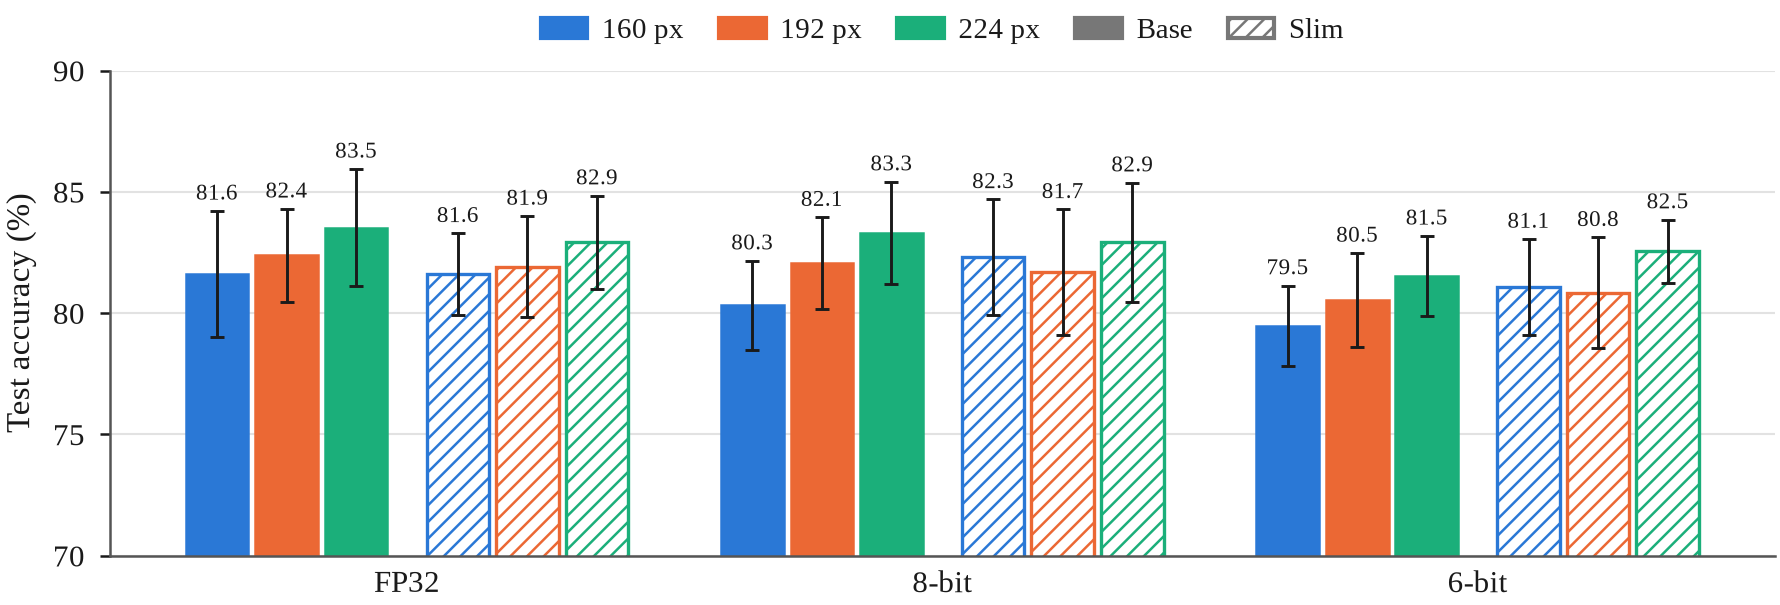
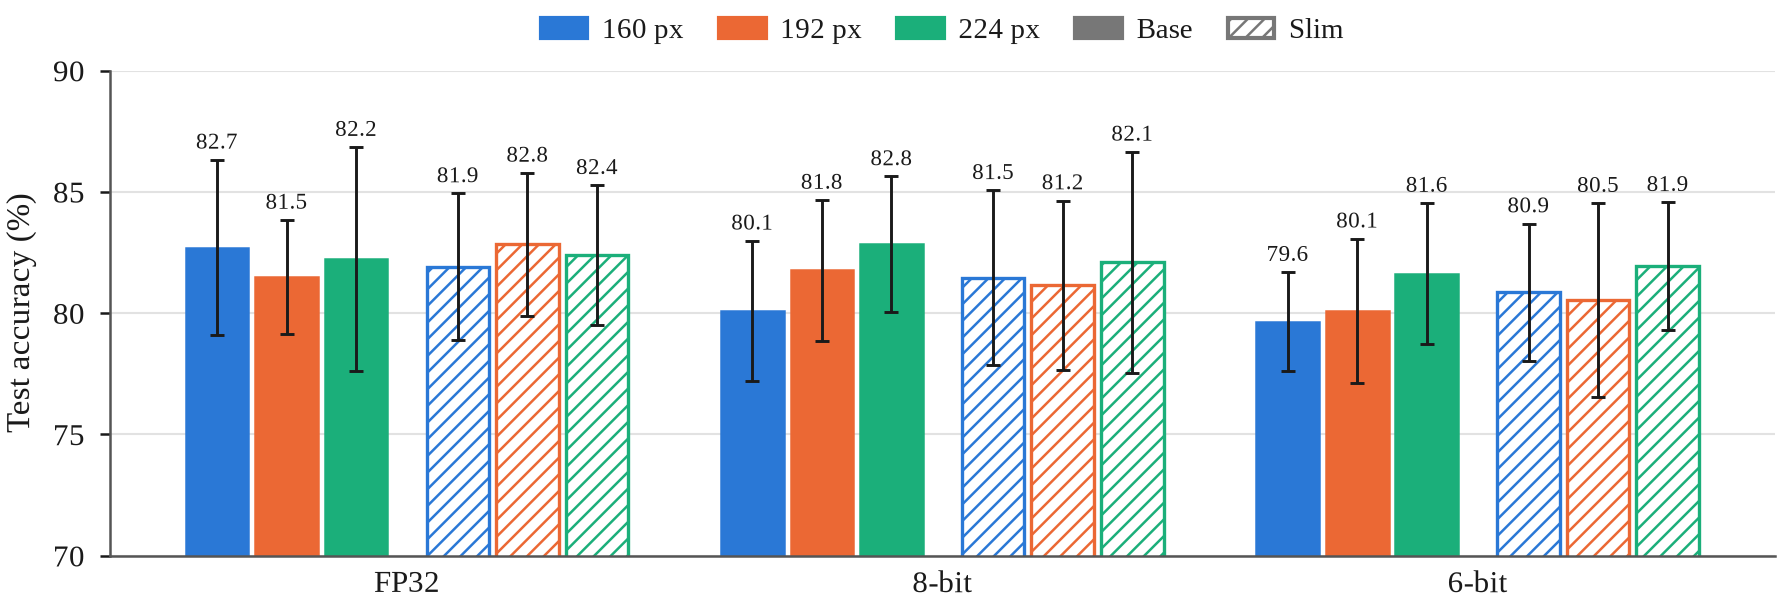
QAT figures from the TA-teacher runs only

diff --git a/scripts/make_figures.py b/scripts/make_figures.py
@@ -40,6 +40,8 @@ TEACHER_NAMES = {"r18_ta": "TA (ResNet18)", "r50_direct": "Direct (ResNet50)"}
 PRECISIONS = ("fp32", "8w8a", "6w6a", "4w4a")
 PRECISION_NAMES = {"fp32": "FP32", "8w8a": "8-bit", "6w6a": "6-bit", "4w4a": "4-bit"}
 BIT_MARKERS = {"6w6a": "o", "8w8a": "^"}
+# QAT is part of the teacher-assistant pipeline; the R50-direct QAT runs stay in results/ but are not plotted.
+QAT_TEACHER = "r18_ta"
 
 # Reference categorical palette (light mode, slots 1-3); validated all-pairs for three series.
 RES_COLORS = {160: "#2a78d6", 192: "#eb6834", 224: "#1baf7a"}
@@ -218,7 +220,7 @@ def fig_fp32_teachers(runs, out, metric, label):
 
 
 def fig_qat_precision(runs, out, metric, label, precisions, ylim, name):
-    """Accuracy for each precision, teachers pooled (5 seeds x 2 teachers)."""
+    """Accuracy for each precision; runs are the TA-teacher runs (5 seeds)."""
     stats = summarize(runs, ("architecture", "resolution", "precision"))
     fig, ax = plt.subplots(figsize=(TEXT_WIDTH, 2.1))
     width = 0.13
@@ -267,7 +269,7 @@ def fig_u250_throughput(builds, out):
 
 
 def fig_u250_accuracy_vs_throughput(builds, runs, out):
-    """QAT accuracy (teachers pooled) against the maximum U250 throughput of the same configuration."""
+    """QAT accuracy (TA teacher, 5 seeds) against the maximum U250 throughput of the same configuration."""
     stats = summarize(runs, ("architecture", "resolution", "precision"))
     fig, ax = plt.subplots(figsize=(COLUMN, 2.3))
     rows = []
@@ -323,21 +325,19 @@ def main():
     (out / "data").mkdir(parents=True, exist_ok=True)
     style()
     runs, builds = load_runs(), load_builds()
-    paired = paired_changes(runs)
+    ta_runs = [r for r in runs if r["teacher"] == QAT_TEACHER]
+    paired = paired_changes(ta_runs)
     for metric, label in (("accuracy", "Test accuracy (%)"), ("f1_weighted", "Weighted F1 (%)")):
         fig_fp32_teachers(runs, out, metric, label)
-        fig_qat_precision(runs, out, metric, label, PRECISIONS[:3], (70, 90), "qat_precision")
-        fig_qat_precision(runs, out, metric, label, PRECISIONS, (50, 100), "qat_precision_with_4bit")
+        fig_qat_precision(ta_runs, out, metric, label, PRECISIONS[:3], (70, 90), "qat_precision")
+        fig_qat_precision(ta_runs, out, metric, label, PRECISIONS, (50, 100), "qat_precision_with_4bit")
     fig_u250_throughput(builds, out)
-    acc_fps = fig_u250_accuracy_vs_throughput(builds, runs, out)
+    acc_fps = fig_u250_accuracy_vs_throughput(builds, ta_runs, out)
     area = fig_u250_slim_area(builds, out)
 
-    summary = []
-    for by, scope in ((("architecture", "resolution", "teacher", "precision"), "per_teacher"),
-                      (("architecture", "resolution", "precision"), "teachers_pooled")):
-        for key, metrics in sorted(summarize(runs, by).items()):
-            for metric, s in metrics.items():
-                summary.append({"scope": scope, **dict(zip(by, key)), "metric": metric, **s})
+    by = ("architecture", "resolution", "teacher", "precision")
+    summary = [{**dict(zip(by, key)), "metric": metric, **s}
+               for key, metrics in sorted(summarize(runs, by).items()) for metric, s in metrics.items()]
     write_csv(out / "data/runs.csv", runs)
     write_csv(out / "data/summary.csv", summary)
     write_csv(out / "data/paired_change_vs_fp32.csv", paired)

diff --git a/analysis/figures/README.md b/analysis/figures/README.md
@@ -25,9 +25,10 @@ narrowed to 128 and 64 channels (218k parameters). "8-bit"/"6-bit"/"4-bit" means
 
 **`qat_precision_accuracy`** (also `_f1_weighted`)
 > Test accuracy after quantization-aware training at 8 and 6 bits, next to the FP32 starting
-> point. Bars: mean of 10 runs (5 seeds × 2 teachers), value on top; whiskers: 95% t interval.
+> point, for students distilled through the ResNet18 teacher assistant. Bars: mean of 5 seeds, value
+> on top; whiskers: 95% t interval.
 > Each QAT run starts from the FP32 checkpoint with the same seed, split, student and teacher.
-> The y-axis starts at 70%. 4-bit (57.7–60.6%) is shown in `qat_precision_with_4bit_*`.
+> The y-axis starts at 70%. 4-bit (57.3–62.2%) is shown in `qat_precision_with_4bit_*`.
 
 **`qat_precision_with_4bit_accuracy`** (also `_f1_weighted`)
 > As above, including 4-bit QAT; the y-axis starts at 50%.
@@ -38,7 +39,7 @@ narrowed to 128 and 64 channels (218k parameters). "8-bit"/"6-bit"/"4-bit" means
 > at 224 px is limited to 1,958 FPS.
 
 **`u250_accuracy_vs_throughput`**
-> Mean QAT test accuracy (10 runs) against the maximum U250 throughput of each built configuration
+> Mean QAT test accuracy (TA teacher, 5 seeds) against the maximum U250 throughput of each built configuration
 > (`u250_max_throughput`). 6- and 8-bit builds of the same model reach the same throughput: FINN picks
 > the same parallelism for both, and bit-width only changes area.
 
@@ -49,8 +50,13 @@ narrowed to 128 and 64 channels (218k parameters). "8-bit"/"6-bit"/"4-bit" means
 
 ## Notes for the text
 
-- Paired QAT − FP32 change (same seed, split, student and teacher; `data/paired_change_vs_fp32.csv`),
-  60 pairs per bit-width: 8-bit −0.2 pp [−0.9, +0.4], 6-bit −1.3 pp [−2.0, −0.6], 4-bit −23.7 pp [−25.0, −22.5].
+- QAT belongs to the teacher-assistant pipeline, so all QAT figures use the ResNet18-TA runs only.
+  The sweep also ran QAT on the ResNet50-direct students; those runs stay in `results/qat_sweep` and
+  `data/summary.csv` but are not plotted. The TA-vs-direct comparison is the FP32 figure.
+- Paired QAT − FP32 change (TA runs; same seed, split and student; `data/paired_change_vs_fp32.csv`),
+  30 pairs per bit-width: 8-bit −0.7 pp [−1.7, +0.3], 6-bit −1.5 pp [−2.3, −0.6], 4-bit −23.3 pp [−24.7, −21.9].
+- TA minus direct at FP32: Base +2.2 / −1.8 / −2.6 pp and Slim +0.6 / +1.8 / −1.0 pp at 160 / 192 / 224 px.
+  TA tends to help the weaker settings (smallest input, Slim at 192), but every interval overlaps.
 
 - Teacher, input size and architecture differences are within the seed-to-seed spread
   (SD 2–4 pp on 133 test images); the figures do not support ranking them.
